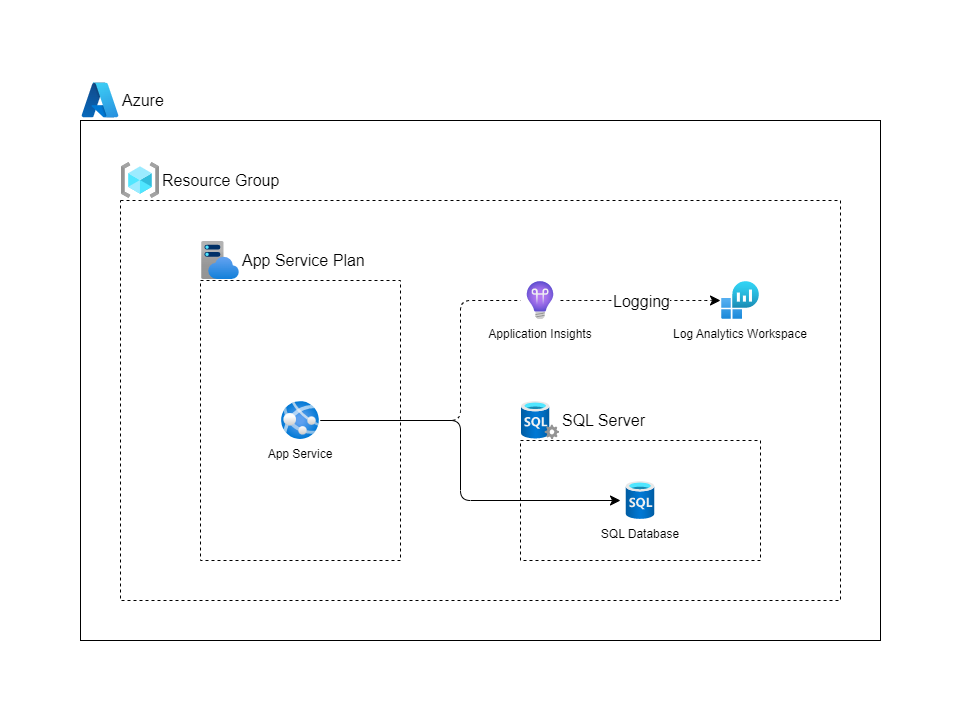
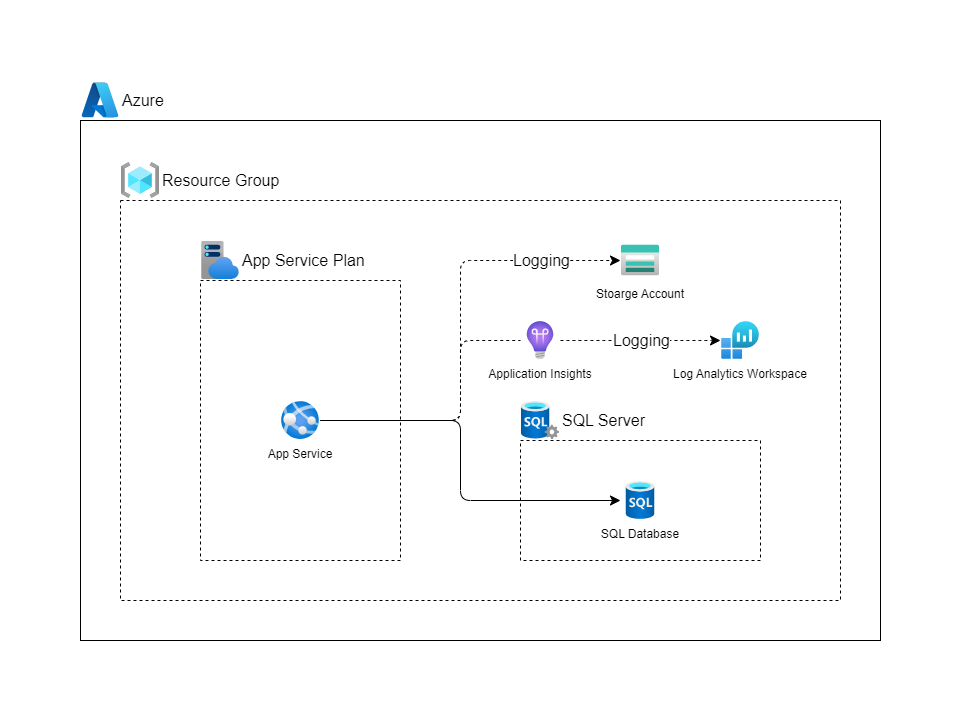
ストレージアカウントの追加を反映

Changed region(s): [[0.4995, 0.3352, 0.8429, 0.5485], [0.718, 0.518, 0.7492, 0.5485]]

diff --git a/ARMTemplate/FIXERTemplate/SQLDatabaseApplication-Single/README.md b/ARMTemplate/FIXERTemplate/SQLDatabaseApplication-Single/README.md
@@ -25,7 +25,9 @@
    - `Project Prefix`：プロジェクト名
    - `Location Name`：デプロイ先のリージョンの名前（東日本：japaneast）
    - `Location Code`：デプロイ先のリージョンの略称（東日本：je）
-   - `Sku`：App Service Plan の SKU（Standard S1：S1）
+   - `App Service Sku Name`：App Service Plan の SKU（Standard S1：S1）
+   - `Storage Account Kind`：ストレージアカウントの種別(標準v2：StandardV2)
+   - `Storage Account Sku Name`：ストレージアカウントのSKU（Standard_LRS、Premium_LRS、Standard_ZRS、Standard_GRS）
    - `Administrator Login`：SQL Server の管理者ユーザ名
    - `Administrator Login Password`：SQL Server の管理者ユーザパスワード
    - `Database Name`：データベース名
